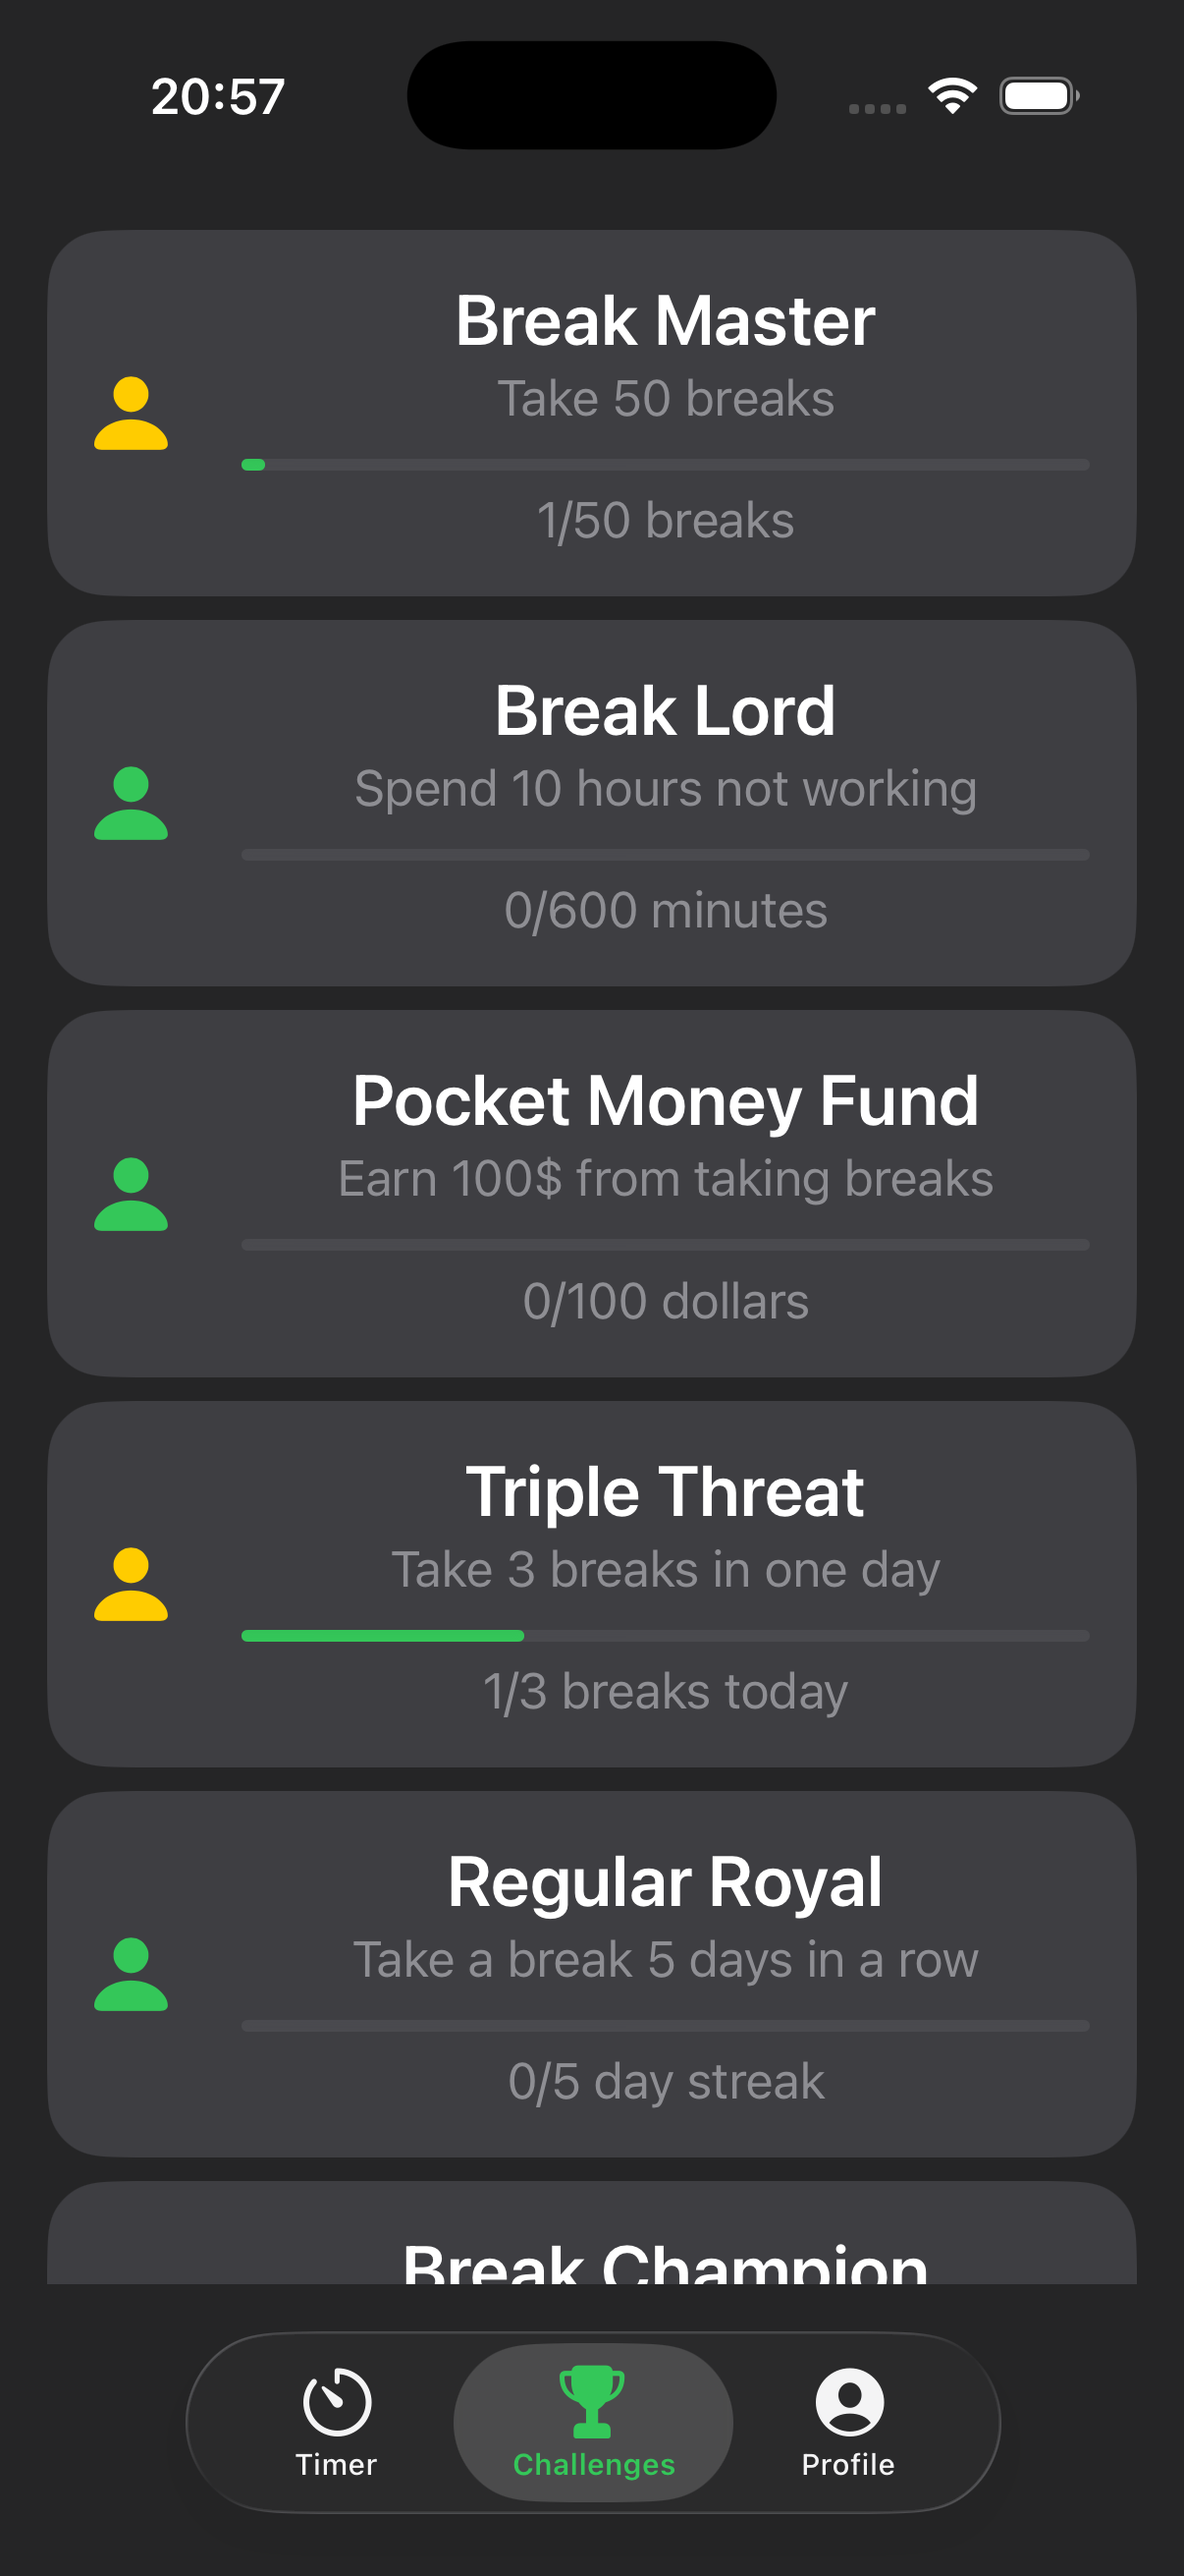
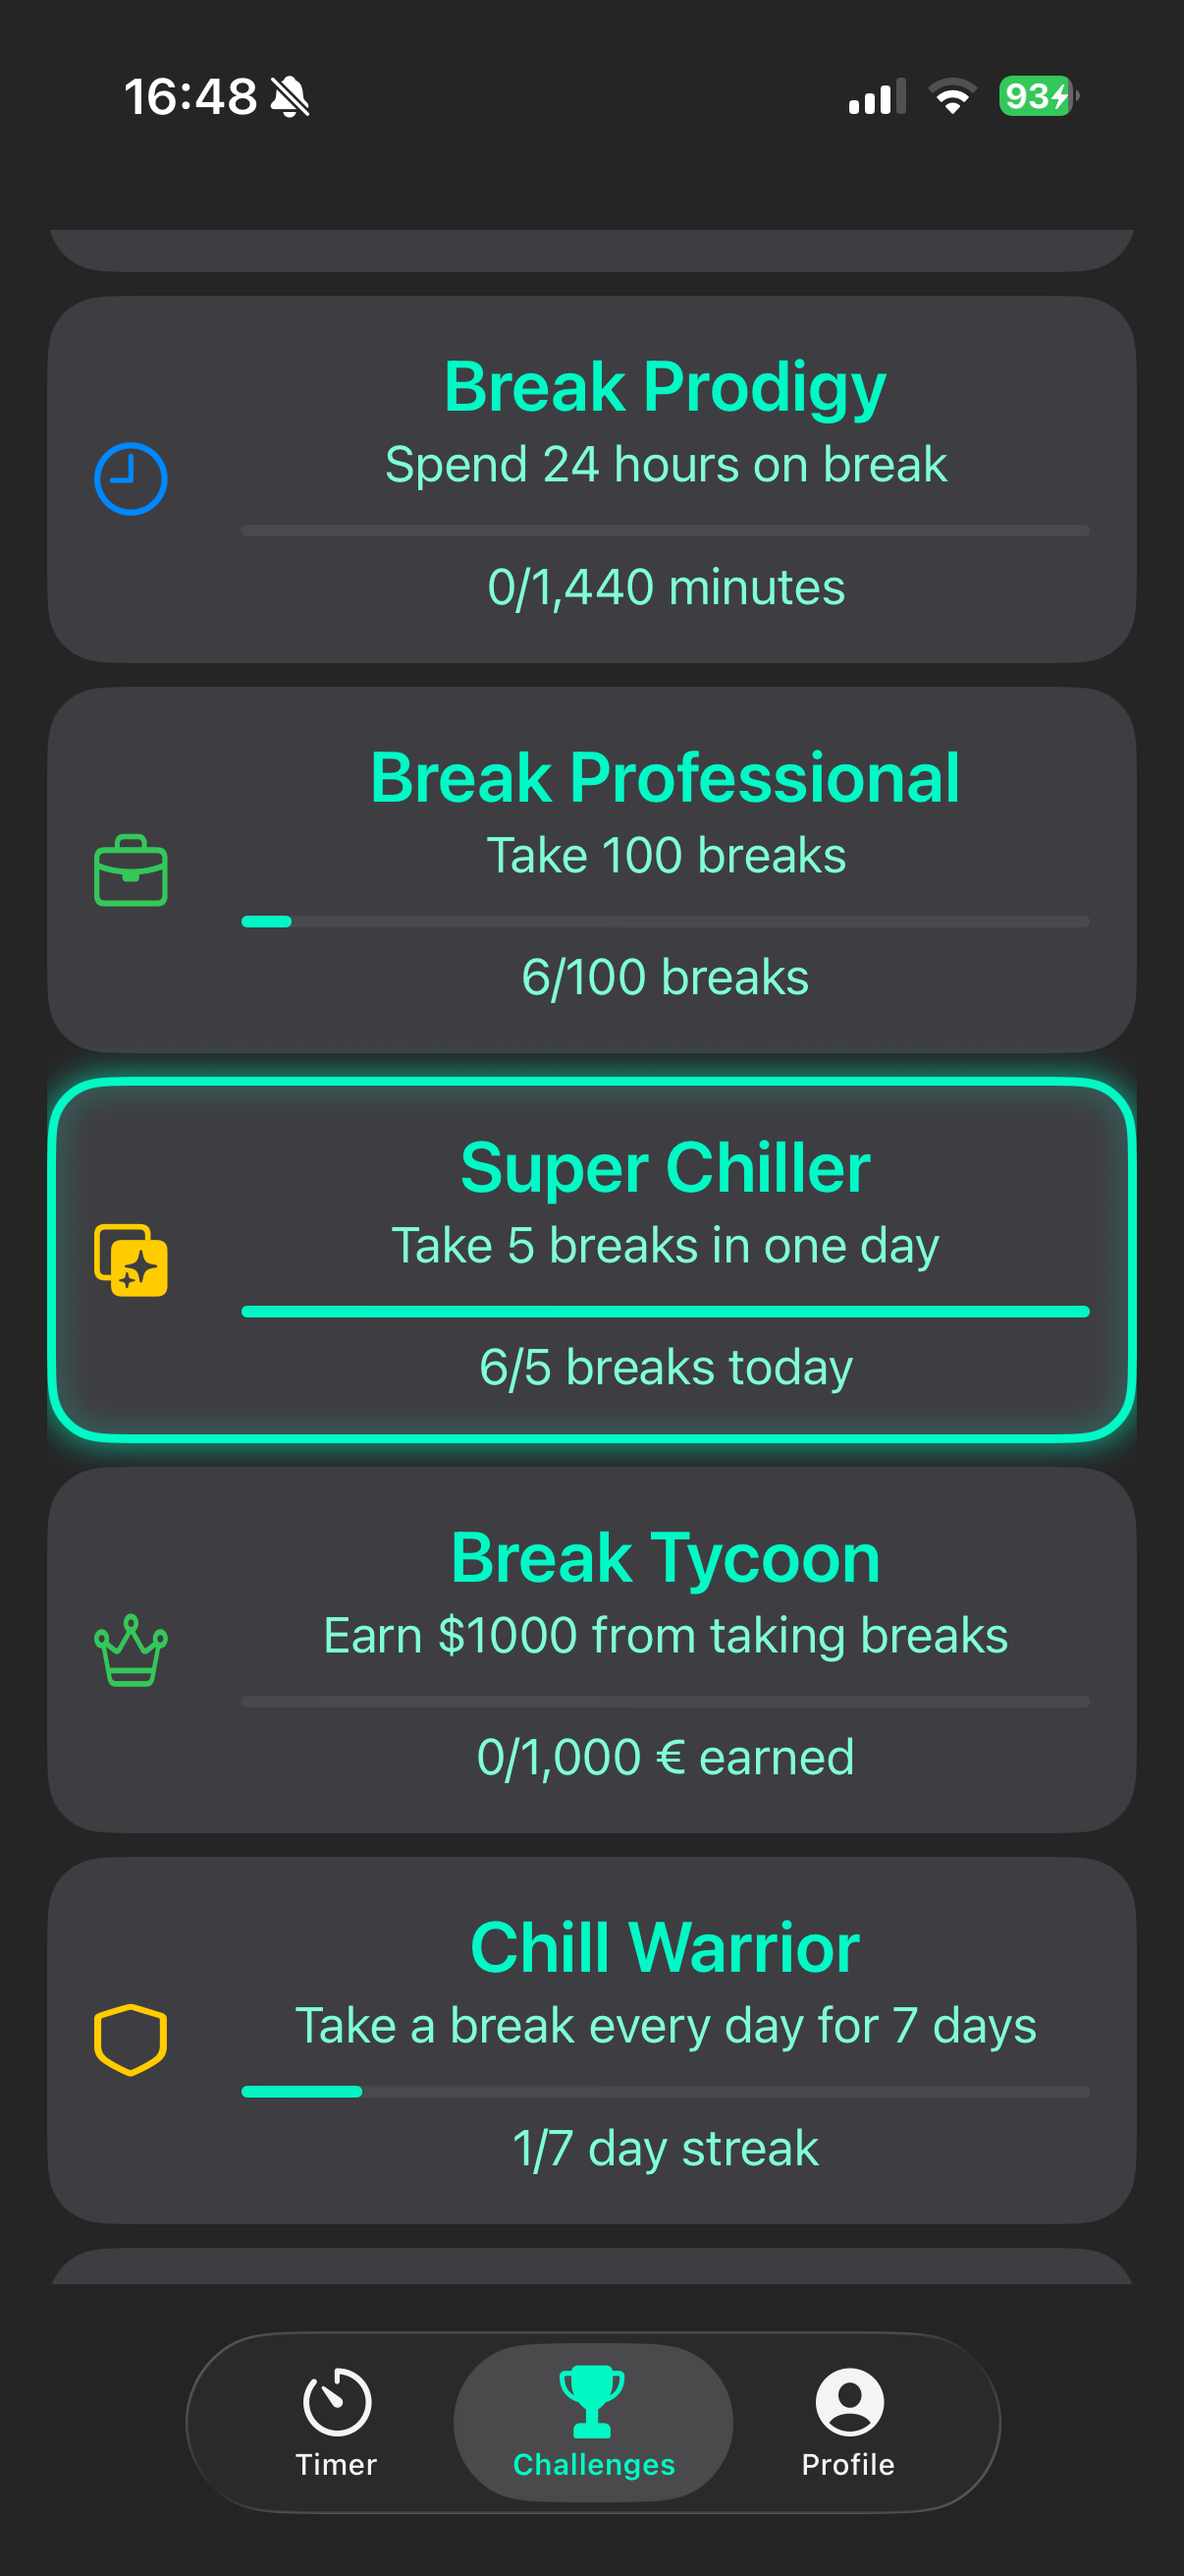
Update color scheme to use aquamarine and brightTeal
Replaced green and gray UI elements with new aquamarine and brightTeal colors across AchievementDetailView, ProfileView, TimerView, and HomeView. Added aquamarine and brightTeal color assets. Updated screenshots to reflect the new color scheme. Improved achievement progress calculation to clamp values between 0 and 1.

diff --git a/BreakApp/Views/TimerView.swift b/BreakApp/Views/TimerView.swift
@@ -16,17 +16,17 @@ struct TimerView: View {
                 Text("Current Break")
                     .font(.title)
                     .bold()
-                    .foregroundStyle(.white)
+                    .foregroundStyle(.aquamarine)
                     .padding(.bottom, 5)
                 
                 Text(viewModel.formattedTime)
                     .font(.system(size: 32, weight: .bold))
-                    .foregroundStyle(.white)
+                    .foregroundStyle(.aquamarine)
                     .padding(.bottom, 5)
                 
                 Text(viewModel.earnedSalary, format: .currency(code: Locale.current.currency?.identifier ?? "EUR"))
                     .font(.system(size: 24, weight: .bold))
-                    .foregroundStyle(.green)
+                    .foregroundStyle(.brightTeal)
                     .padding(.bottom, 10)
                 
                 Button {
@@ -43,7 +43,7 @@ struct TimerView: View {
                         .frame(height: 50)
                         .frame(maxWidth: .infinity)
                         .foregroundStyle(.black)
-                        .background(.green)
+                        .background(.brightTeal)
                         .clipShape(RoundedRectangle(cornerRadius: 50))
                         .padding(.horizontal)
                 }
@@ -56,10 +56,10 @@ struct TimerView: View {
             HStack {
                 VStack {
                     Text("Today")
-                        .foregroundStyle(.gray)
+                        .foregroundStyle(.aquamarine)
                     
                     Text(viewModel.earnedToday, format: .currency(code: Locale.current.currency?.identifier ?? "EUR"))
-                        .foregroundStyle(.green)
+                        .foregroundStyle(.brightTeal)
                 }
                 .frame(maxWidth: .infinity)
                 .frame(height: 75)
@@ -68,10 +68,10 @@ struct TimerView: View {
                 
                 VStack {
                     Text("This Week")
-                        .foregroundStyle(.gray)
+                        .foregroundStyle(.aquamarine)
                     
                     Text(viewModel.earnedThisWeek, format: .currency(code: Locale.current.currency?.identifier ?? "EUR"))
-                        .foregroundStyle(.green)
+                        .foregroundStyle(.brightTeal)
                 }
                 .frame(maxWidth: .infinity)
                 .frame(height: 75)
@@ -80,10 +80,10 @@ struct TimerView: View {
                 
                 VStack {
                     Text("This Month")
-                        .foregroundStyle(.gray)
+                        .foregroundStyle(.aquamarine)
                     
                     Text(viewModel.earnedThisMonth, format: .currency(code: Locale.current.currency?.identifier ?? "EUR"))
-                        .foregroundStyle(.green)
+                        .foregroundStyle(.brightTeal)
                 }
                 .frame(maxWidth: .infinity)
                 .frame(height: 75)
@@ -96,16 +96,16 @@ struct TimerView: View {
             VStack() {
                 HStack {
                     Image(systemName: "line.diagonal.arrow")
-                        .foregroundStyle(.green)
+                        .foregroundStyle(.brightTeal)
                     
                     Text("Lifetime Earnings")
                         .font(.system(size: 24))
-                        .foregroundStyle(.white)
+                        .foregroundStyle(.aquamarine)
                 }
                 
                 Text(viewModel.lifetimeEarnings, format: .currency(code: Locale.current.currency?.identifier ?? "EUR"))
                     .font(.system(size: 32, weight: .bold))
-                    .foregroundStyle(.green)
+                    .foregroundStyle(.brightTeal)
             }
             .padding()
             .frame(height: 100)
@@ -116,7 +116,6 @@ struct TimerView: View {
             Spacer()
         }
         .padding()
-        //.frame(width: .infinity)
         .background(.darkBackground)
     }
 }

diff --git a/BreakApp/Views/ProfileView.swift b/BreakApp/Views/ProfileView.swift
@@ -17,14 +17,14 @@ struct ProfileView: View {
                 Text("Hourly Rate")
                     .font(.title)
                     .bold()
-                    .foregroundStyle(.white)
+                    .foregroundStyle(.aquamarine)
                     .padding(.bottom, 5)
                 
                 TextField("Hourly Rate", value: $viewModel.hourlyRate, format: .currency(code: Locale.current.currency?.identifier ?? "EUR"))
                     .keyboardType(.decimalPad)
                     .multilineTextAlignment(.center)
                     .font(.system(size: 32, weight: .bold))
-                    .foregroundStyle(.green)
+                    .foregroundStyle(.brightTeal)
                     .padding(.horizontal)
                     .focused($isEditingRate)
                 
@@ -49,7 +49,7 @@ struct ProfileView: View {
                     //.frame(width: 150, height: 50)
                     .frame(height: 50)
                     .foregroundStyle(.black)
-                    .background(.green)
+                    .background(.brightTeal)
                     .clipShape(RoundedRectangle(cornerRadius: 50))
                 }
                 .buttonStyle(.plain)
@@ -63,25 +63,25 @@ struct ProfileView: View {
             VStack {
                 Text("All Time Stats")
                     .font(.system(size: 24))
-                    .foregroundStyle(.white)
+                    .foregroundStyle(.aquamarine)
                 
                 HStack {
                     VStack {
                         Text("Total Earnings")
-                            .foregroundStyle(.gray)
+                            .foregroundStyle(.aquamarine)
                         
                         Text(viewModel.lifetimeEarnings, format: .currency(code: Locale.current.currency?.identifier ?? "EUR"))
-                            .foregroundStyle(.green)
+                            .foregroundStyle(.brightTeal)
                     }
                     
                     Spacer()
                     
                     VStack {
                         Text("Total Time")
-                            .foregroundStyle(.gray)
+                            .foregroundStyle(.aquamarine)
                         
                         Text(viewModel.formattedTotalTime)
-                            .foregroundStyle(.green)
+                            .foregroundStyle(.brightTeal)
                     }
                 }
                 .padding()

diff --git a/BreakApp/Views/AchievementDetailView.swift b/BreakApp/Views/AchievementDetailView.swift
@@ -12,7 +12,8 @@ struct AchievementDetailView: View {
     @Binding var currentProgress: Int
     
     var achievementProgress: Float {
-        Float(currentProgress) / Float(achievement.maxProgress)
+        let progress = Float(currentProgress) / Float(achievement.maxProgress)
+        return min(max(progress, 0), 1)
     }
     
     var isAchievementUnlocked: Bool {
@@ -29,17 +30,17 @@ struct AchievementDetailView: View {
             VStack {
                 Text(achievement.title)
                     .font(.system(size: 24, weight: .semibold))
-                    .foregroundStyle(.white)
+                    .foregroundStyle(.brightTeal)
                 
                 Text(achievement.description)
-                    .foregroundStyle(.gray)
+                    .foregroundStyle(.aquamarine)
                 
                 ProgressView(value: achievementProgress)
                     .sliderThumbVisibility(.hidden)
-                    .tint(.green)
+                    .tint(.brightTeal)
                 
                 Text("\(currentProgress)/\(achievement.maxProgress) \(achievement.progressText)")
-                    .foregroundStyle(.gray)
+                    .foregroundStyle(.aquamarine)
                 
             }
         }
@@ -48,13 +49,13 @@ struct AchievementDetailView: View {
         .frame(maxWidth: .infinity)
         .frame(maxHeight: .infinity)
         .clipShape(RoundedRectangle(cornerRadius: 20))
-        // green border if isAchievementUnlocked
+        // brightTeal border if isAchievementUnlocked
         .overlay(
             RoundedRectangle(cornerRadius: 20)
-                .strokeBorder(isAchievementUnlocked ? Color.green : Color.clear, lineWidth: 3)
+                .strokeBorder(isAchievementUnlocked ? Color.brightTeal : Color.clear, lineWidth: 3)
         )
         // for a glow effect
-        .shadow(color: isAchievementUnlocked ? .green.opacity(0.5) : .clear, radius: 5)
+        .shadow(color: isAchievementUnlocked ? .brightTeal.opacity(0.5) : .clear, radius: 5)
     }
 }
 

diff --git a/BreakApp/Views/ChallengesView.swift b/BreakApp/Views/ChallengesView.swift
@@ -49,6 +49,7 @@ struct ChallengesView: View {
                             unlockedImage: "dollarsign.circle.fill",
                             progressText: "€ earned"
                         ),
+                        // This is some GPT magic
                         // This creates a read-only integer binding to viewModel.lifetimeEarnings.
                         //  I can use it in a UI control like a ProgressView or Slider, but moving the slider won’t change the underlying data because set does nothing.
                         //  The binding lets SwiftUI observe changes in viewModel.lifetimeEarnings if it’s a @Published property.

diff --git a/BreakApp/Views/HomeView.swift b/BreakApp/Views/HomeView.swift
@@ -28,7 +28,7 @@ struct HomeView: View {
                     Label("Profile", systemImage: "person.crop.circle")
                 }
         }
-        .tint(.green)
+        .tint(.brightTeal)
         .onAppear() {
             viewModel.checkResets()
             viewModel.loadStreak()
